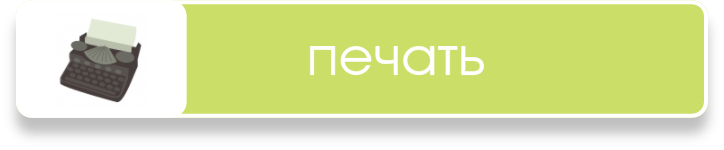
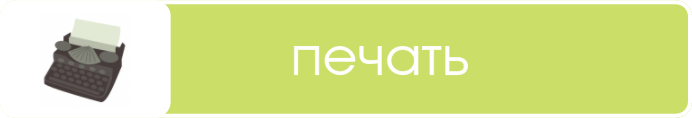
added page with the recipe

diff --git a/src/components/EggnogPage.vue b/src/components/EggnogPage.vue
@@ -1,35 +1,58 @@
 <template>
   <div class="main-content">
-    <div class="hello">
-      <h2 class="m-4">Привет, дорогой друг!</h2>
-      <h3 class="m-4">Наконец-то наступило лето! Понимаю, хочется освежиться. Пусть подборка необычных рецептов утолит твою жажду!</h3>
-    </div>
-    <img class="rainbow" src="../assets/ponies/rainb_eggnog.png" alt="Радуга в костюме" width="362px" height="221px">
-    <img class="spike" src="../assets/ponies/spike_sapcake.png" alt="Спайк с сапфировым кексиком" width="119px" height="138px">
-    <img class="pinki" src="../assets/ponies/pinki_punch.png" alt="Пинки пьёт сок" width="362px" height="227px">
-    <li v-for="item in store.aradata" style="list-style-type: none; " class="col-4 d-flex card">
-          <div class="flex-fill justify-content-center">
+    <div class="col-4 d-flex card">
+        <div class="flex-fill justify-content-center">
             <div class="name text-center p-4">
-              <h3>{{ item.name }} </h3>
-              <h3>{{ item.alias }} </h3>
+              <h3>{{ store.aradata[0].episode_name }} </h3>
+              <h3>{{ store.aradata[0].episode }} </h3>
             </div>
             <div class="d-flex justify-content-center">
-              <img class="photo" :src="item['img']" alt="Изображение готового рецепта" width="352px" height="340px">
+              <img class="photo" :src="store.aradata[0]['episode_img']" alt="Скриншот из серии" width="656px" height="369px">
+            </div>
+            <div class="comment">
+                <li v-for="comment in store.aradata[0].episode_comment" class="py-2">
+                    {{ comment }}
+                </li>
+            </div>
+        </div>
+    </div>
+    <img class="rainbow" src="../assets/ponies/rainb_eggnog.png" alt="Радуга в костюме" width="362px" height="221px">
+    <div class="col-4 d-flex card">
+          <div class="flex-fill justify-content-center">
+            <div class="name text-center p-4">
+              <h3>{{ store.aradata[0].name }} </h3>
+              <h3>{{ store.aradata[0].alias }} </h3>
+            </div>
+            <div class="d-flex justify-content-center">
+              <img class="photo" :src="store.aradata[0]['img']" alt="Изображение готового рецепта" width="352px" height="340px">
             </div>
             <div>
-              <span class="time d-flex"><img src="../assets/pictos/clocks.png" alt="Часы" width="42px" height="37px"><p class="w-auto">{{ item.time }}</p></span>
-              <span class="ingredients d-flex"><img src="../assets/pictos/book.png" alt="Открытая книга" width="52px" height="59px"><div><li v-for="ingr in item.ingredients">
+              <span class="time d-flex"><img src="../assets/pictos/clocks.png" alt="Часы" width="42px" height="37px"><p class="w-auto">{{ store.aradata[0].time }}</p></span>
+              <span class="ingredients d-flex"><img src="../assets/pictos/book.png" alt="Открытая книга" width="52px" height="59px"><div><li v-for="ingr in store.aradata[0].ingredients">
                 {{ ingr }}
+              </li></div></span>
+              <span class="cooking d-flex"><img src="../assets/pictos/cook.png" alt="Венчик и поварской колпак" width="76px" height="49px"><div><li v-for="step in store.aradata[0].cooking" class="py-2">
+                {{ step }}
               </li></div></span>
             </div>
             <span class="btns d-flex"><div class="saves"><img class="save" src="../assets/buttons/save.png" alt="Сохранить" width="173px" height="29px"><img class="save_hover" src="../assets/buttons/save_hover.png" alt="Сохранить" width="173px" height="29px"></div>
-              <RouterLink :to="item['link']"><div class="cooks"><img class="cook" src="../assets/buttons/cook.png" alt="Готовить" width="173px" height="29px"><img class="cook_hover" src="../assets/buttons/cook_hover.png" alt="Готовить" width="173px" height="29px"></div></RouterLink></span>
+              <div class="print"><img class="typewr" src="../assets/buttons/print.png" alt="Печать" width="173px" height="29px"><img class="typewr_hover" src="../assets/buttons/print_hover.png" alt="Печать" width="173px" height="29px"></div></span>
           </div>
-    </li>
+        </div>
   </div>
 </template>
 
 <style scoped>
+.comment{  
+  font-family: "Involve Medium", sans-serif;
+  color: #525252;
+  max-width: 437px;
+  margin-left: 16%;
+  margin-top: 45px;
+  margin-bottom: 55px;
+  list-style-type: none; 
+}
+
 .photo{
   border: 20px solid;
   border-image: url(../assets/recipes/img_sticker.png) 100;
@@ -38,21 +61,7 @@
 .rainbow{
   position: absolute;
   right: 7%;
-  top: 545px;
-  z-index: 1;
-}
-
-.spike{
-  position: absolute;
-  left: 18%;
-  top: 2495px;
-  z-index: 1;
-}
-
-.pinki{
-  position: absolute;
-  right: 7%;
-  top: 3550px;
+  top: 1113.5px;
   z-index: 1;
 }
 
@@ -76,15 +85,15 @@
  box-shadow: 0px 4px 4px 0 rgba(0, 0, 0, 0.25);
 }
 
-.cooks .cook_hover {
+.print .typewr_hover {
  display: none;
 }
 
-.cooks:hover .cook {
+.print:hover .typewr {
  display: none
 }
 
-.cooks:hover .cook_hover {
+.print:hover .typewr_hover {
  display: inline;
  border-radius: 4px;
  box-shadow: 0px 4px 4px 0 rgba(0, 0, 0, 0.25);
@@ -106,6 +115,7 @@
 .name{
   font-family: "Celestia Redux", serif;
   color: #525252;
+  list-style-type: none; 
 }
 
 .card{
@@ -139,6 +149,17 @@
   gap: 20px;
   font-family: "Involve Medium", sans-serif;
   color: #525252;
+  list-style-type: none; 
+}
+
+.cooking{
+  margin-bottom: 40px;
+  margin-left: 12%;
+  gap: 9px;
+  font-family: "Involve Medium", sans-serif;
+  color: #525252;
+  list-style-type: none; 
+  max-width: 405px;
 }
 
 #list {

diff --git a/src/stores/store.js b/src/stores/store.js
@@ -8,6 +8,7 @@ export const PonyStore = defineStore('counter', {
             {
                 name: 'Эггног',
                 alias: '(Шотландская версия гоголя-моголя)',
+                link: '/eggnog',
                 img: '/src/assets/recipes/eggnog.png',
                 time: 'Приготовление займёт 15 минут',
                 ingredients: [
@@ -29,10 +30,18 @@ export const PonyStore = defineStore('counter', {
                     'Процеди через сито, чтобы убрать гвоздику. Остуди.',
                     'Добавь ванильный экстракт, мускатный орех.'
                 ],
-                episode: '/src/assets/recipes/eggnog_ep.png',
+                episode_name: 'День очага',
+                episode: 'Сезон 6, серия 8',
+                episode_img: '/src/assets/recipes/eggnog_ep.png',
+                episode_comment: [
+                    'А вот и серия, в которой пони пьют гоголь-моголь! Попробуй и ты!',
+                    'Старлайт Глиммер не хочет праздновать День Горящего Очага, и Искорка пытается доказать ей, почему этот праздник так важен, прочитав свою любимую историю — сказку о Сноуфолл Фрост.'
+                ],
+                fact: 'Интересный факт Сюжет эпизода основан на повсети Чарльза Дикенса "Рождественская песнь в прозе"'
             },
             {
                 name: 'Сапфировые кексики',
+                link: '/sapphire-cakes',
                 img: '/src/assets/recipes/sapcakes.png',
                 time: 'Приготовление займёт 2 часа',
                 ingredients: [
@@ -51,6 +60,7 @@ export const PonyStore = defineStore('counter', {
             },
             {
                 name: 'Апельсиново-клюквенный пунш',
+                link: '/punch',
                 img: '/src/assets/recipes/punch.png',
                 time: 'Приготовление займёт 10 минут',
                 ingredients: [

diff --git a/src/router/index.js b/src/router/index.js
@@ -3,6 +3,9 @@ import HomeView from '../views/HomeView.vue'
 import FoodView from '../views/FoodView.vue'
 import DrinksView from '../views/DrinksView.vue'
 import FavosView from '../views/FavosView.vue'
+import EggnogView from '../views/EggnogView.vue'
+// import SapcakeView from '../views/SapcakeView.vue'
+// import PunchView from '../views/PunchView.vue'
 
 const routes = [
     {
@@ -25,6 +28,21 @@ const routes = [
       name: 'favorites',
       component: FavosView,
     },
+    {
+      path: '/eggnog',
+      name: 'eggnog',
+      component: EggnogView,
+    },
+    // {
+    //   path: '/sapphier-cakes',
+    //   name: 'sapphier-cakes',
+    //   component: EggnogView,
+    // },
+    // {
+    //   path: '/punch',
+    //   name: 'punch',
+    //   component: EggnogView,
+    // },
 ];
 
 const router = createRouter({

diff --git a/src/views/EggnogView.vue b/src/views/EggnogView.vue
@@ -1,0 +1,13 @@
+<template>
+  <Header></Header>
+  <main>
+    <MainContent />
+  </main>
+  <Footer></Footer>
+</template>
+
+<script setup>
+import Header from '../components/Header.vue'
+import Footer from '../components/Footer.vue'
+import MainContent from '../components/EggnogPage.vue'
+</script>
